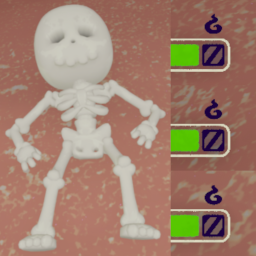
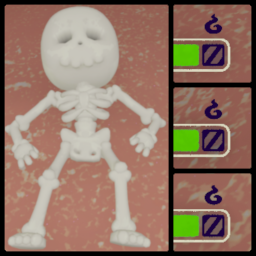
V1.1.0

diff --git a/src/CurseWhenFriendDies/Plugin.cs b/src/CurseWhenFriendDies/Plugin.cs
@@ -1,4 +1,5 @@
 using BepInEx;
+using BepInEx.Configuration;
 using BepInEx.Logging;
 using HarmonyLib;
 
@@ -9,11 +10,16 @@ public partial class Plugin : BaseUnityPlugin
 {
     internal static ManualLogSource Log { get; private set; } = null!;
 
+    internal static ConfigEntry<int> curseAmount;
+    internal static ConfigEntry<int> reviveRewardAmount;
+
     private void Awake()
     {
         Log = Logger;
         Log.LogInfo($"Plugin CurseWhenFriendDies is loaded!");
         new Harmony("com.github.DaxxPurpura.CurseWhenFriendDies").PatchAll();
 
+        curseAmount = Config.Bind("General", "Curse Amount", 5, "Amount of curse applied per death (1 unit = 2.5).");
+        reviveRewardAmount = Config.Bind("General", "Revive Reward Amount", 5, "Amount of curse removed per revive (1 unit = 2.5).");
     }
 }

diff --git a/src/CurseWhenFriendDies/Patches/RPCA_RevivePatch.cs b/src/CurseWhenFriendDies/Patches/RPCA_RevivePatch.cs
@@ -1,0 +1,22 @@
+using HarmonyLib;
+using Photon.Pun;
+
+namespace CurseWhenFriendDies.Patches;
+
+[HarmonyPatch(typeof(Character), "RPCA_Revive")]
+public class RPCA_RevivePatch
+{
+    static void Postfix(Character __instance)
+    {
+        var clientCharacter = Character.localCharacter;
+        if (clientCharacter != __instance)
+        {
+            clientCharacter.refs.afflictions.SubtractStatus(CharacterAfflictions.STATUSTYPE.Curse, Plugin.reviveRewardAmount.Value / 100f);
+            Plugin.Log.LogInfo("Removed " + Plugin.reviveRewardAmount.Value / 100f + " curse to " + clientCharacter.characterName + " after revival of " + __instance.characterName);
+        }
+        else
+        {
+            Plugin.Log.LogInfo("Removed curse to other players with CurseWhenFriendDies Mod");
+        }
+    }
+}

diff --git a/src/CurseWhenFriendDies/Patches/RPCA_DiePatch.cs b/src/CurseWhenFriendDies/Patches/RPCA_DiePatch.cs
@@ -1,0 +1,22 @@
+using HarmonyLib;
+using Photon.Pun;
+
+namespace CurseWhenFriendDies.Patches;
+
+[HarmonyPatch(typeof(Character), "RPCA_Die")]
+public class RPCA_DiePatch
+{
+    static void Postfix(Character __instance)
+    {
+        var clientCharacter = Character.localCharacter;
+        if (clientCharacter != __instance)
+        {
+            clientCharacter.refs.afflictions.AddStatus(CharacterAfflictions.STATUSTYPE.Curse, Plugin.curseAmount.Value / 100f);
+            Plugin.Log.LogInfo("Applied " + Plugin.curseAmount.Value / 100f + " curse to " + clientCharacter.characterName + " after death of " + __instance.characterName);
+        }
+        else
+        {
+            Plugin.Log.LogInfo("Applied curse to other players with CurseWhenFriendDies Mod");
+        }
+    }
+}

diff --git a/README.md b/README.md
@@ -1,7 +1,8 @@
 # Curse When Friend Dies
 
-A simple mod that inflicts 2 units of curse to all players who have it
-installed when someone dies (excluding the dead player) to incentivize
-keeping as many players as possible alive.
+A simple mod that applies 2 curse units (configurable) to all players
+(with the mod installed) when someone dies, and removes 2 curse units
+(configurable) when a player is revived, incentivizing keeping as
+many players as possible alive.
 
-Mod idea requested by joytomaro
+Mod idea suggested by joytomaro

diff --git a/CHANGELOG.md b/CHANGELOG.md
@@ -1,5 +1,10 @@
 # Changelog
 
+## [1.1.0] - 2025-08-20
+
+- Added configurable curse units.
+- Added revival reward.
+
 ## [1.0.0] - 2025-08-01
 
 - Initial release.
